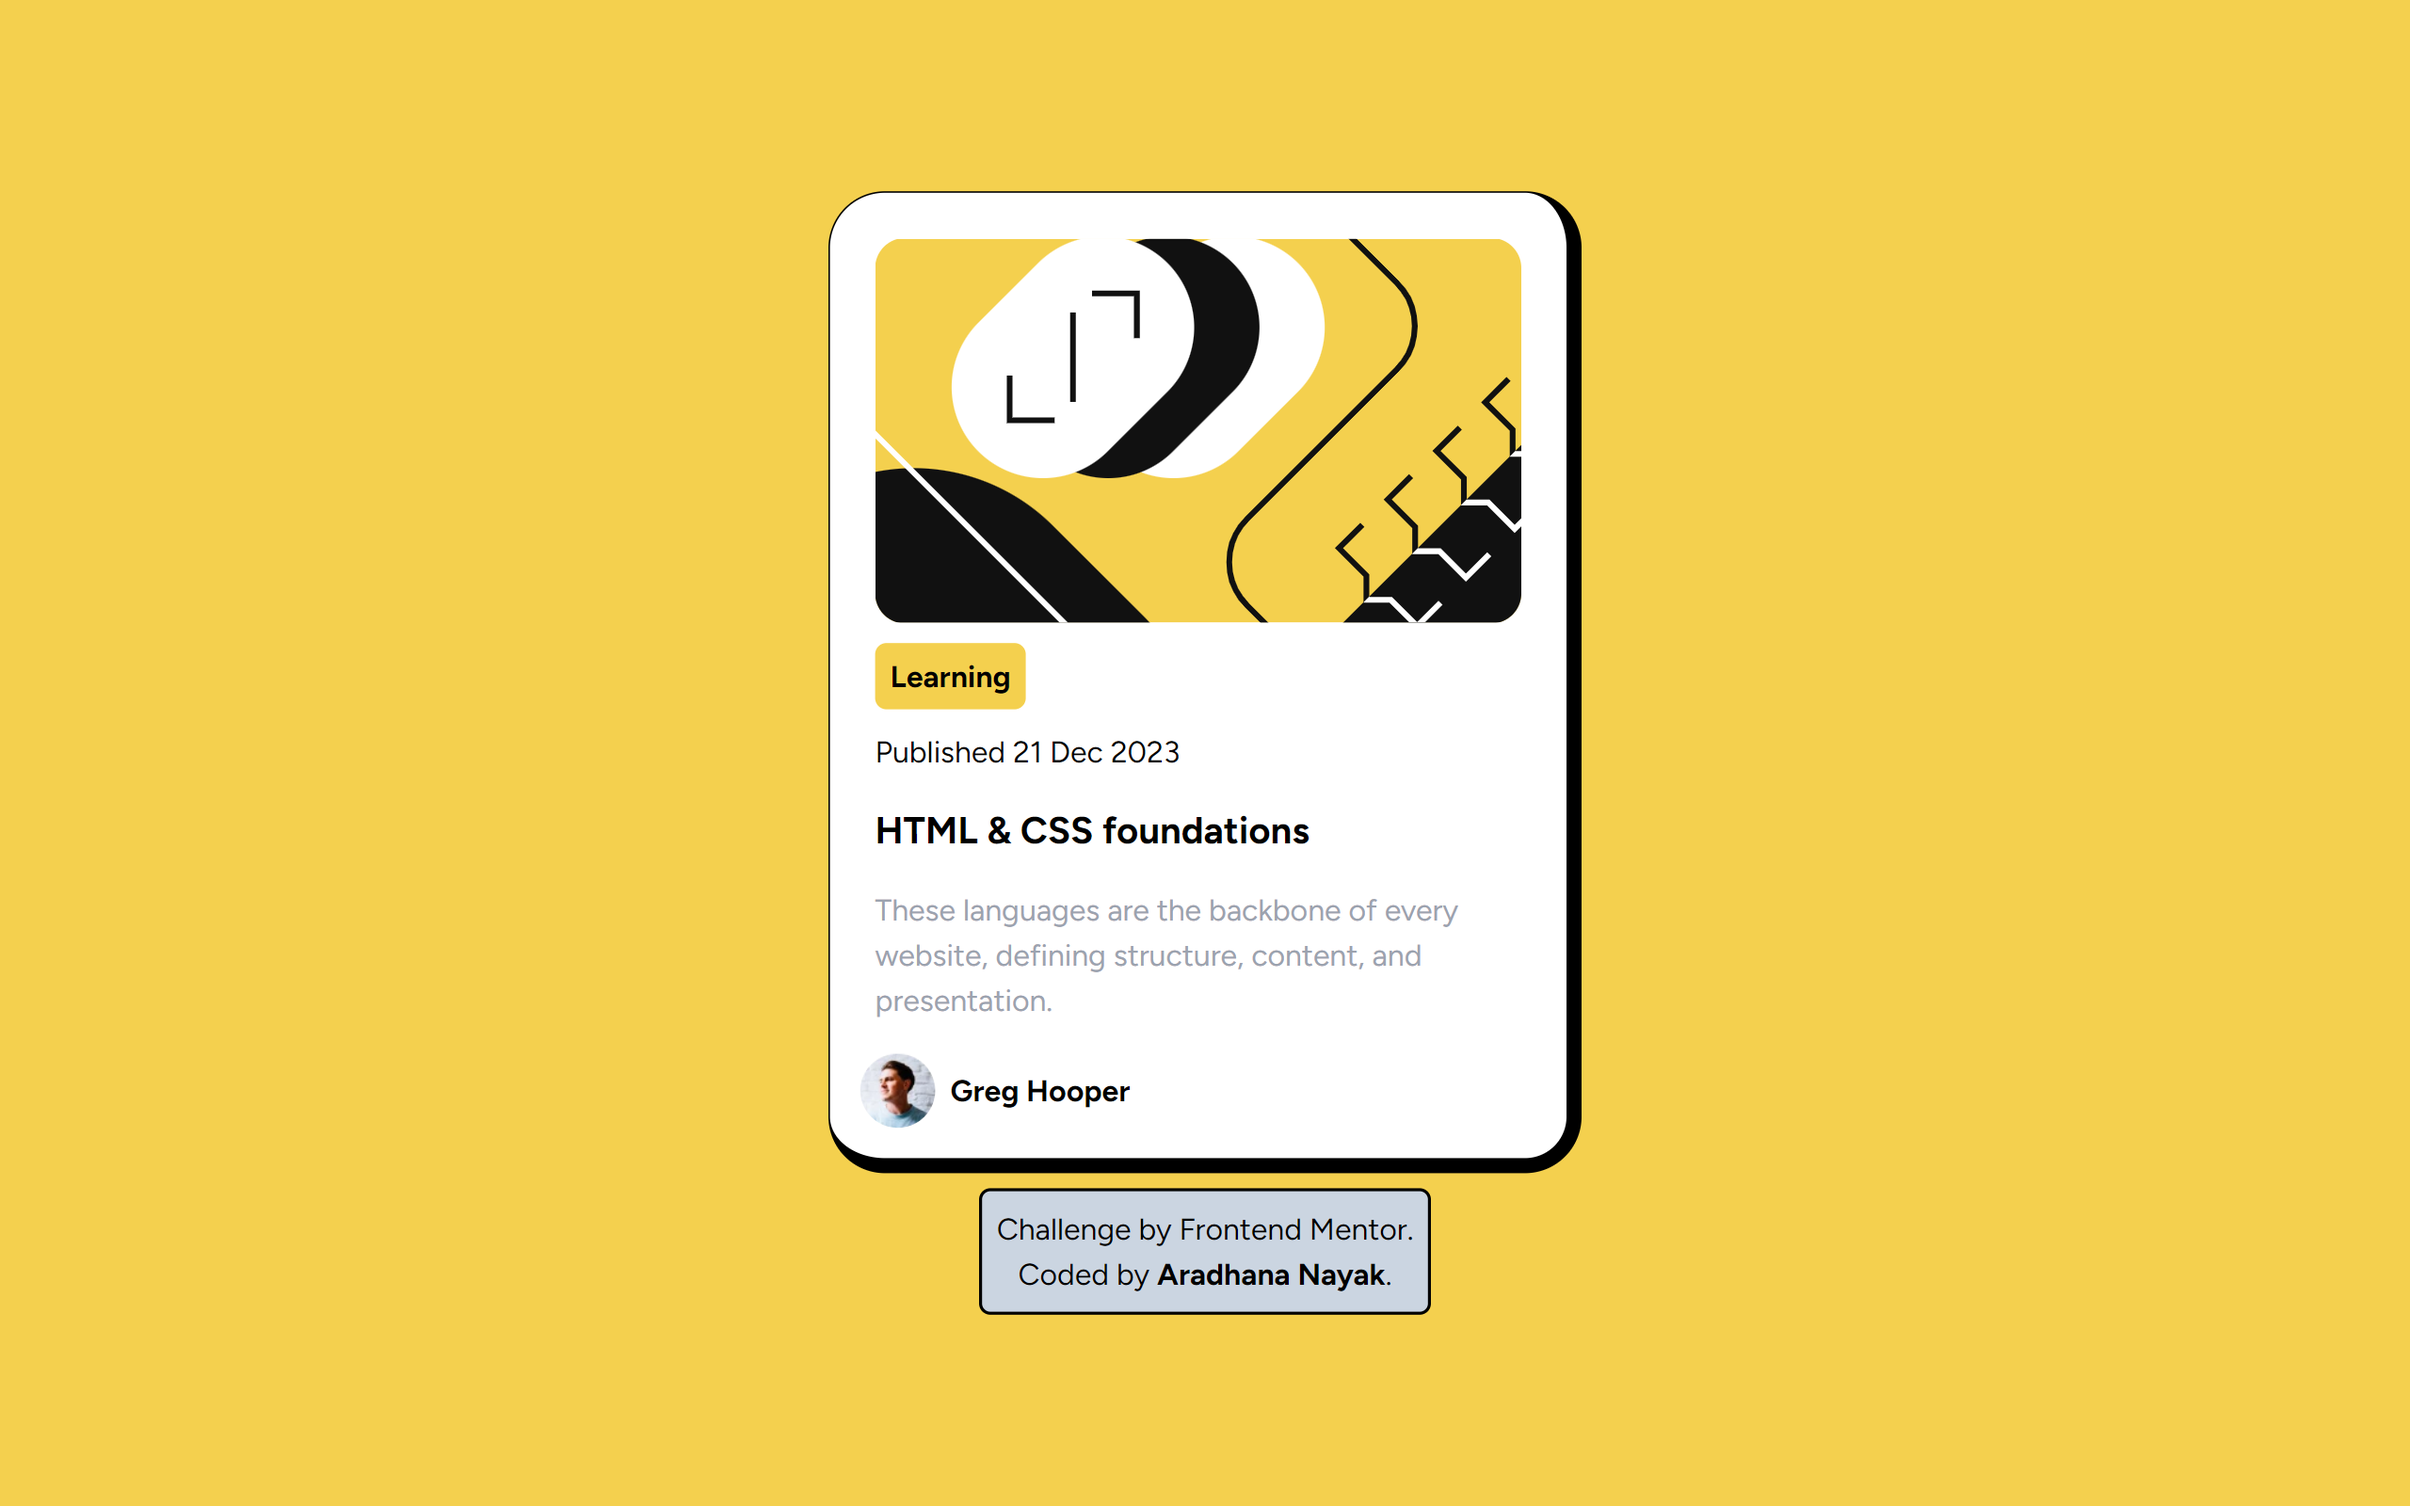
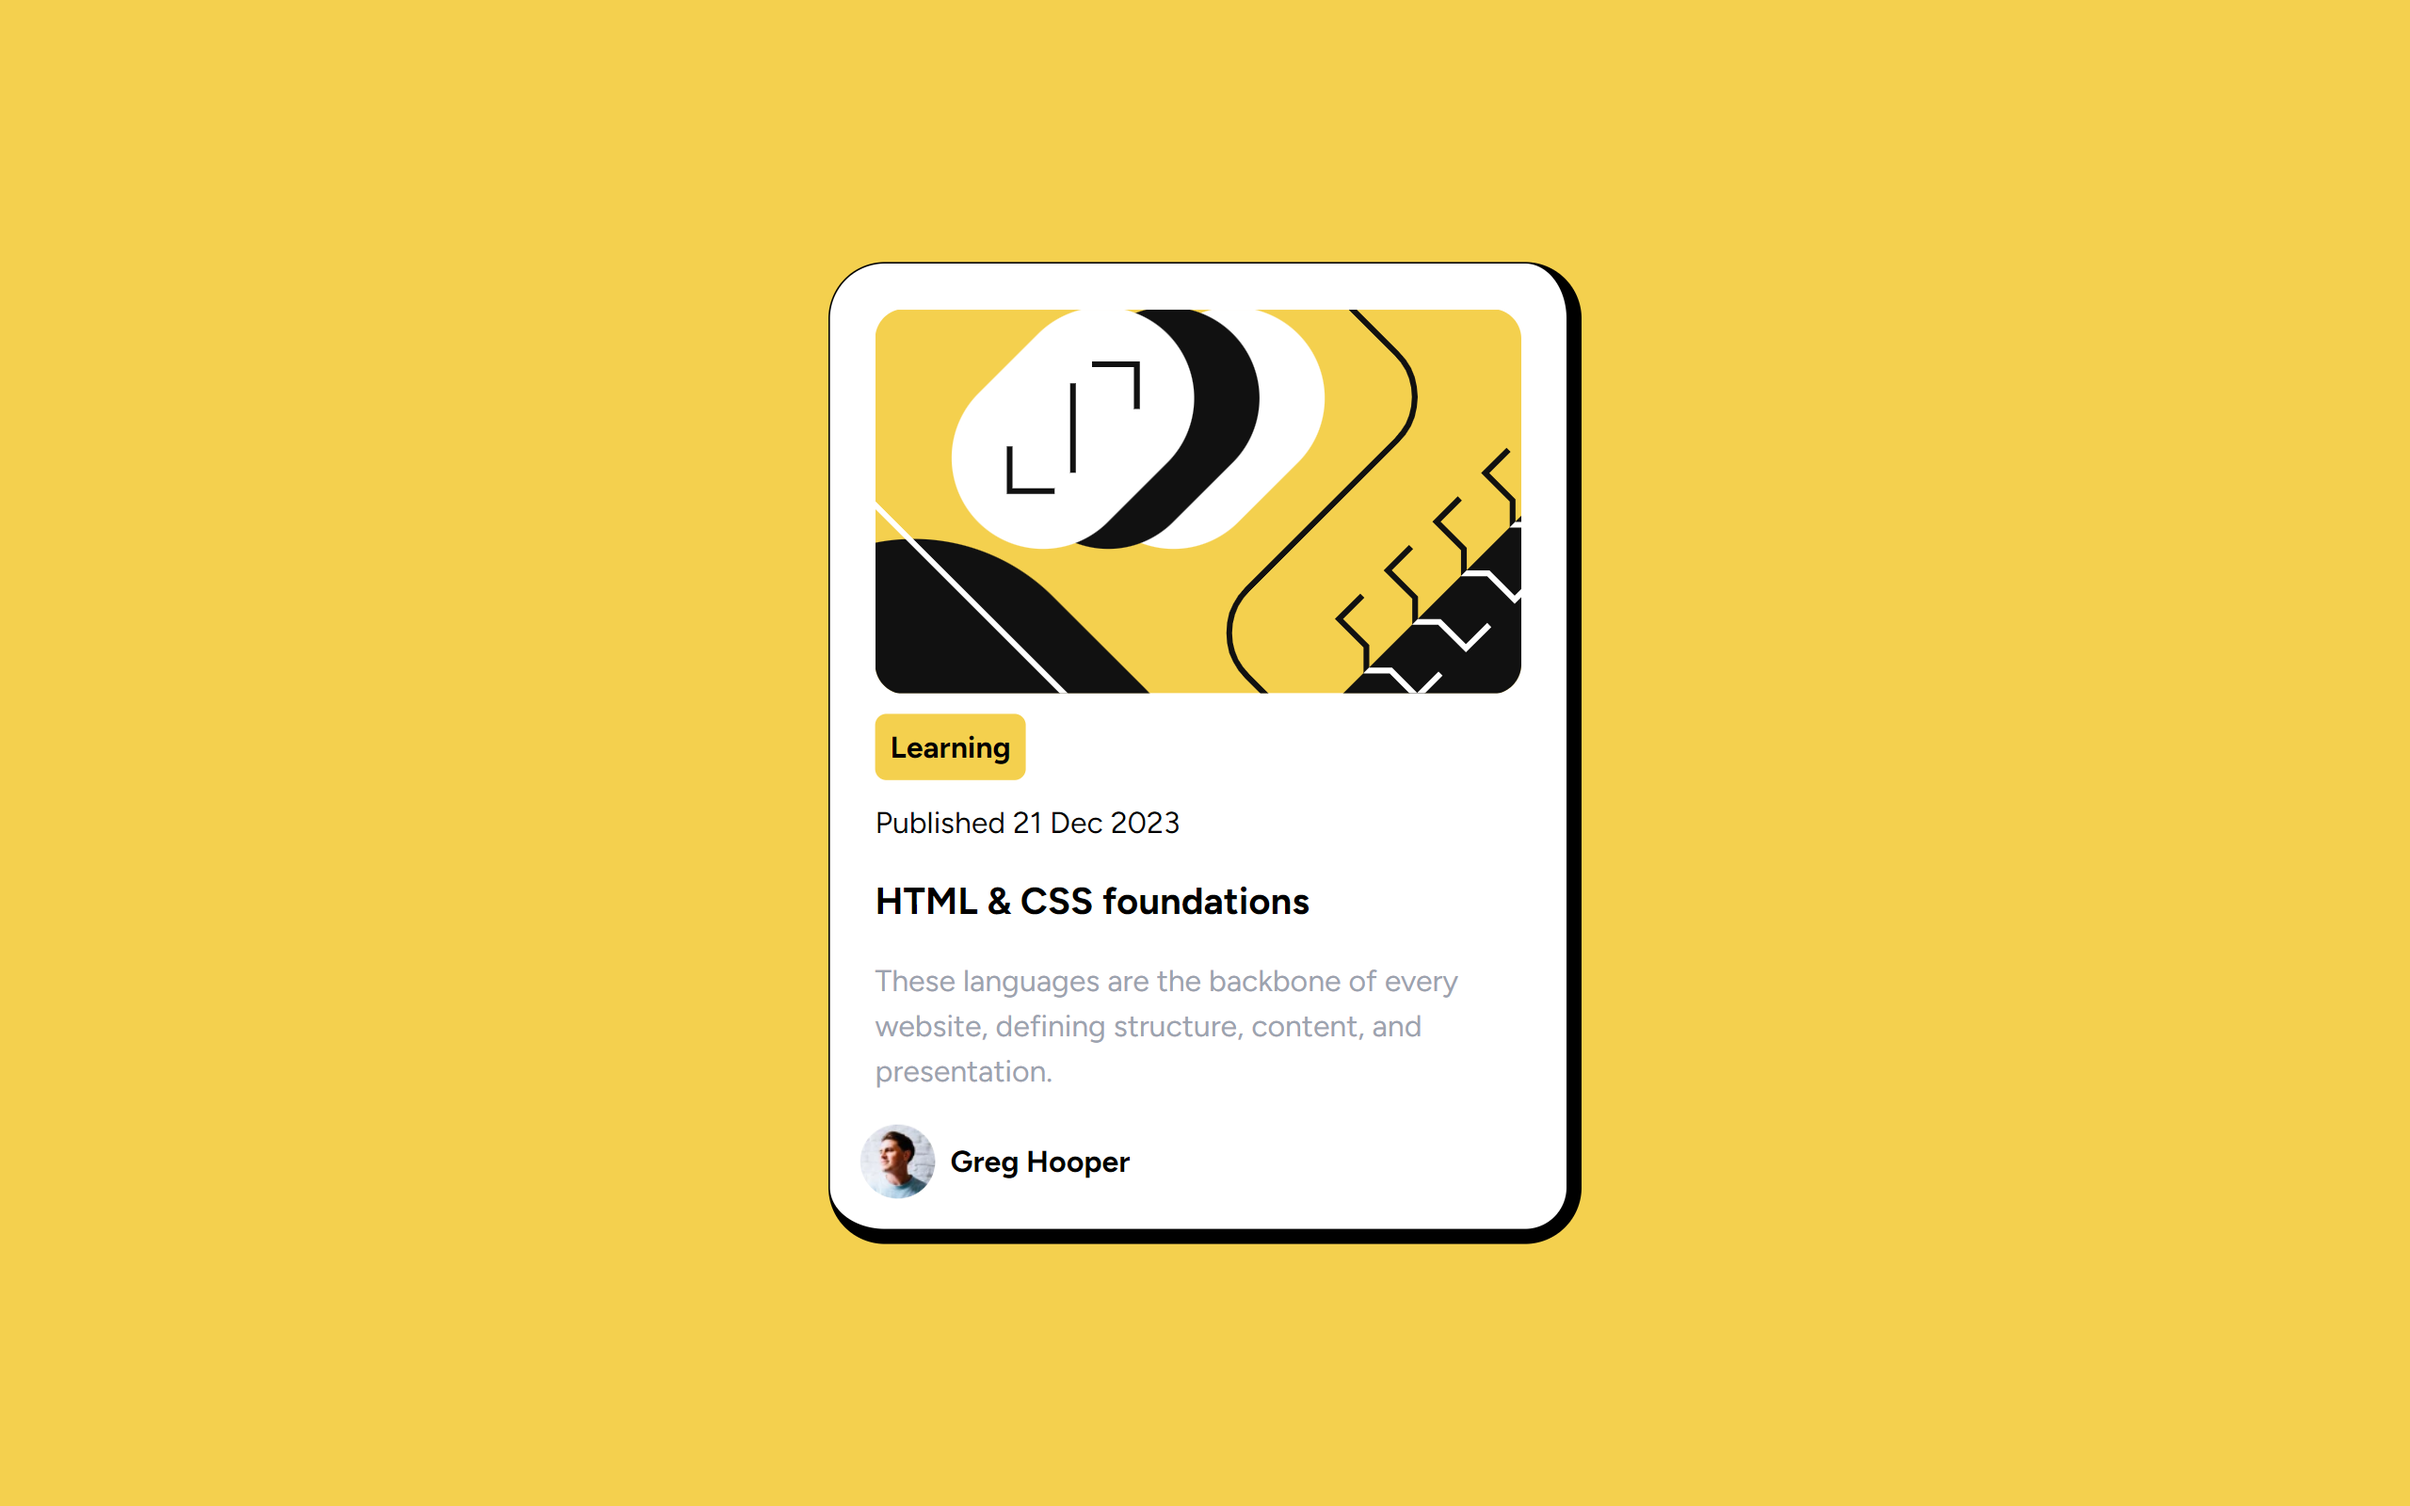
final changes

Changed region(s): [[0.3438, 0.125, 0.6562, 0.5625], [0.3438, 0.5938, 0.6562, 0.875]]

diff --git a/index.html b/index.html
@@ -84,7 +84,7 @@
       </div>
     </div>
 
-    <div
+    <!-- <div
       class="attribution mt-2 bg-slate-300 p-2 rounded-md border-2 text-center border-black"
     >
       Challenge by
@@ -100,7 +100,7 @@
         class="font-bold"
         >Aradhana Nayak</a
       >.
-    </div>
+    </div> -->
   </body>
 
   <script src="script.js"></script>
